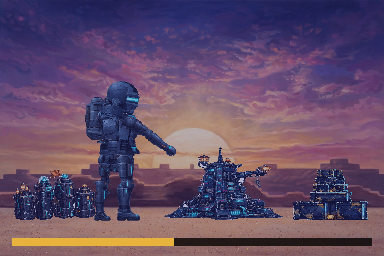
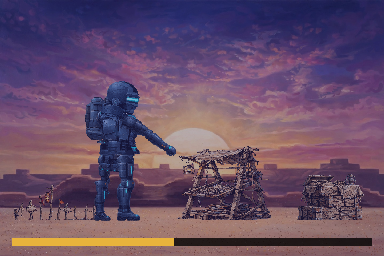
Extraction set repaint: painterly stakes, sift rig, and crates replace the neon-glass set (owner ruling 2026-11-18)

Changed region(s): [[0.4375, 0.5625, 0.9688, 0.875], [0.0312, 0.6562, 0.25, 0.875]]

diff --git a/src/test/overhaulVisuals.test.ts b/src/test/overhaulVisuals.test.ts
@@ -422,6 +422,15 @@ describe('performance + payload budgets (§4.9)', () => {
     // No existing sprite is modified or removed. Manifest total
     // 36,739,007 → 37,026,461 B; the ceiling literal follows the
     // total +1.
-    expect(total).toBeLessThan(37_026_461 + 1);  });
+    // Extraction set repaint (2026-11-18): the three extraction
+    // set pieces are repainted in the painterly timber / canvas /
+    // rope handling of the bench family, replacing the neon-glass
+    // originals at identical file dimensions (owner ruling
+    // 2026-11-18, DESIGN.md §12): set-extract-rig 406,505 ->
+    // 564,266 B, set-extract-crates 470,637 -> 564,207 B,
+    // set-extract-stakes 466,403 -> 229,565 B — trio +14,493 B
+    // net (+1.1% on the family). Manifest total 37,026,461 →
+    // 37,040,954 B; the ceiling literal follows the total +1.
+    expect(total).toBeLessThan(37_040_954 + 1);  });
 
 });

diff --git a/wiki/Changelog.md b/wiki/Changelog.md
@@ -7,6 +7,7 @@ Per-release notes for CyberCache, newest first. Entries are written by hand in t
 - **The thing you came for is at the top now** — a pass over every stop put each surface's main event back in the first screen: your own standing pins right under the Standings board's header instead of at its foot; **View Full Profile** stays pinned to the foot of a hunter's pop-up instead of scrolling away; the Vendor's search and sort sit at the top of the buy mode instead of below the whole rotation; on the Repair and Shield Tech boards, **My workbench** — the jobs you are working — leads the page whenever you have one going; Cache Rank's **Bonus Channels** come before the Milestone Tape; and the Wardrobe's skin list comes before the big showcase painting, so **Wear** is the first thing you reach. Nothing about what any of these do changed — they just stopped making you scroll for them.
 - **Dispatch offers show their pay, and the roam rundown counts the target down** — every offer on the Contract Board now prints what it pays right on its face, so you can compare the board without opening each preview (the preview still refines the number for the exact loadout or vehicle you commit). And while you roam, the rundown's fourth cell reads **Target HP** — the current target's remaining health, counting down as you work it — in place of Shield Break, which no roam can use; the other modes keep Shield Break as they were.
 - **The decision rides at the fold now** — boss prep and Chamber entry pin a bar at the fold with the true price and the start button, so the fee you will pay is on the first screen, not at the bottom of the scroll. While a Chamber run is live, the zone under the stage answers for the run: your depth, the escrow at risk, what dying would pay, the next milestone — and **Bank & Leave** with the full payout, right there. And while you are looking at a delve, the zone answers for the extraction: the site and method, the time to the next pass, your gear factor — including the **Deep Delve paying as Surface** warning whenever a deep delve's factor sits below ×0.80, even while the delve is paused, with **Resume** beside it to set the saved delve working again as-is.
+- **Extraction sites wear their new painted set** — the claim stakes, the sift rig, and the crates at every extraction site are painted in timber, canvas, and rope now, matching the workshop's bench family; the old neon-glass set is retired. The work itself is unchanged — same sites, same passes, same finds — it just belongs to the same world as the rest of the set dressing now.
 
 ## 2026-11-17 — The bench shows its work; drops show themselves; the painting, everywhere the hunter stands
 
@@ -421,9 +422,15 @@ The largest single expansion in the game's history, landing across one weekend:
 <!-- wiki-gen:changelog-ledger -->
 ### Merge ledger
 
-_Every pull request merged since 2026-11-01 (PR #262), recorded exactly as merged — 333 merges. This ledger is the completeness record behind the themed entries above it: if a merge shipped, it is listed here. Generated from master's merge history; see `docs/WIKI.md`._
+_Every pull request merged since 2026-11-01 (PR #262), recorded exactly as merged — 337 merges. This ledger is the completeness record behind the themed entries above it: if a merge shipped, it is listed here. Generated from master's merge history; see `docs/WIKI.md`._
 
-**2026-11-17** — 10 merges
+**2026-11-18** — 3 merges
+
+- #613 — First-screen lifts (B2): the datum leads its surface — 8 small lifts from the audit census
+- #614 — First-screen Gear batch: jump chips, all-kind compare strip, windowed slot picker
+- #615 — R2 bars: prep action bars, chamber + extract rundown zones, run-state lift (item 40)
+
+**2026-11-17** — 11 merges
 
 - #602 — Device-pass fix: Crafting Pack — queue leads, seat takes the paused head, shared QuantityPicker
 - #603 — Batch 1 — paintings swap: Gear doll + Workshop scenes (device-pass fix round)
@@ -435,6 +442,7 @@ _Every pull request merged since 2026-11-01 (PR #262), recorded exactly as merge
 - #609 — Login streak: paid today shows its check; streak day starts at 08:00 UTC (0101)
 - #610 — Craft-info V1: the bench rundown takes the Home zone in Craft mode
 - #611 — Skill-routing fix: every skill tree reaches gameplay (F1–F8, migration 0102)
+- #612 — First-screen fix (Workshop): Bench Jobs leads the embedded panel; TintPanel ahead of the catalog
 
 **2026-11-16** — 13 merges
 

diff --git a/DESIGN.md b/DESIGN.md
@@ -3445,3 +3445,26 @@ layout") and it ships as rendered:
    (paint still clips) without creating the cage. Verified: no
    other sticky descendant or clipping behavior under either
    root relied on the hidden value.
+
+### 2026-11-18 — The extraction set is repainted: timber, canvas, and rope (owner-ruled)
+
+The extraction stage's three set pieces — the claim stakes
+(set-extract-stakes), the sift rig (set-extract-rig), and the
+crates (set-extract-crates) — shipped in a neon-glass handling
+that clashed with the game's painterly set family. The owner
+reviewed the repainted set on rendered stage frames and adopted
+it ("Adopt the new extraction set", 2026-11-18):
+
+1. **The repainted pieces are the set.** All three pieces are
+   repainted painterly — timber frames, canvas, and rope — in
+   the handling of the bench family. The neon-glass originals
+   are retired for these three pieces.
+2. **Nothing else moves.** The repaint lands at identical file
+   dimensions (stakes 2000×1200, rig 1280×1920, crates
+   1600×1600); the stage composition — stakes at xPct 14, the
+   rig at 58, crates at 86 — the anchors, and the placement
+   are unchanged. Art only: no layout, mechanic, or number
+   changes.
+3. **Scope is the trio.** The adoption covers the extraction
+   set only; the game's other set pieces keep their current
+   paintings under their own rulings.
